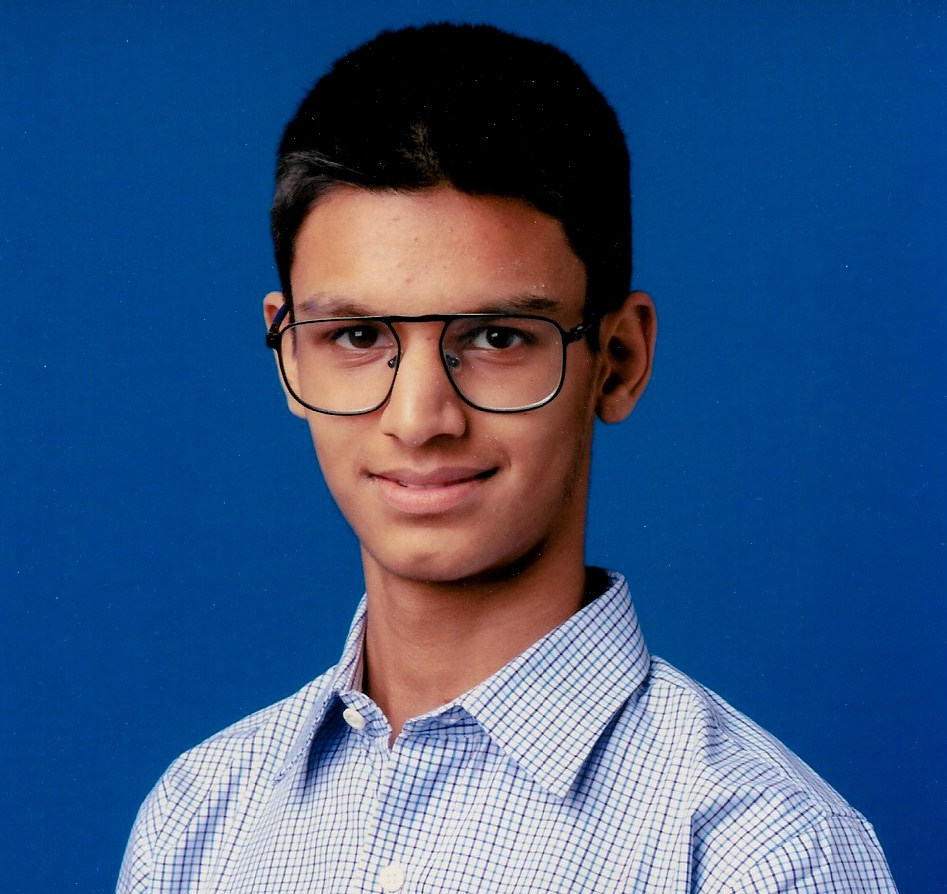
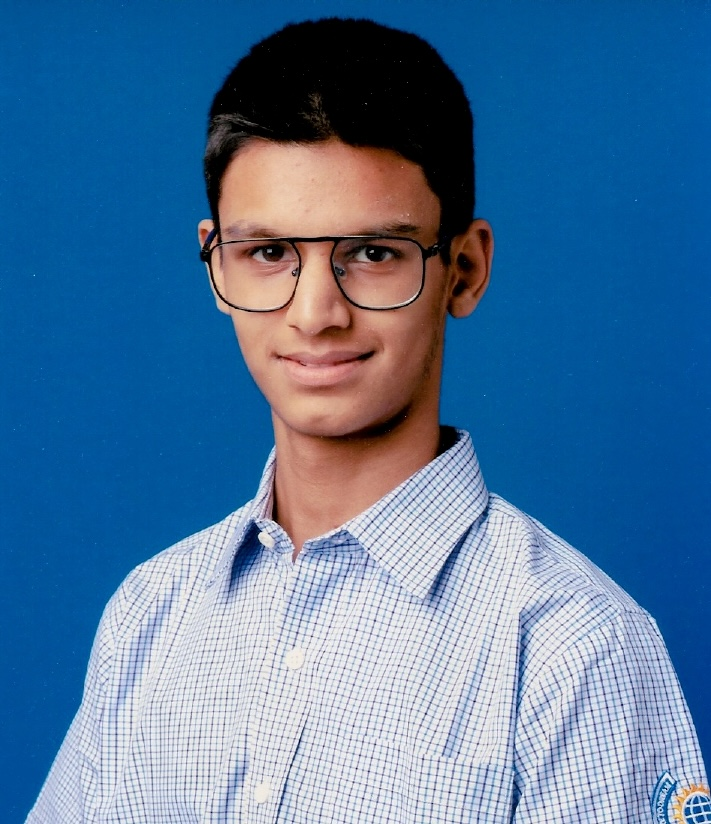
main page ready

diff --git a/index.html b/index.html
@@ -1,27 +1,92 @@
-<DOCTYPE! html>
+<html lang="en">
 
     <head>
         <meta charset="UTF-8">
         <link rel="stylesheet" href="./style.css" type="text/css">
+        <title>
+            
+        </title>
     </head>
 
     <body>
         <div class="title">
-            <div class="name">Annan Vora</div>
-            <div class="name-description">
-                I am a high school senior aspiring to pursue higher education in the United States of America, majoring in Chemistry. 
+            <div class="bio">
+                <div class="name">Annan Vora</div>
+                <div class="name-description">
+                    I am a high school senior aspiring to pursue higher education in the United States of America, majoring in Chemistry. 
+                </div>
             </div>
             <div class="me">
-                <img src="./me.jpg">
+                <img class="me-image" src="./me.png">
             </div>
         </div>
         <hr>
-        <div id="academic" class="main-item">
-            <img src="./me.jpg" class="main-item-image">
-            <a class="into-item" href="https://annanvora.github.io/academic.html">
-                Academic Record
-            </a>
+        <div class="main-wrapper">
+            <div class="main-item" id="academic">
+                <img class="main-image" src="./academic.jpg" alt="Image not found">
+                <a class="item-button" href="https://annanvora.github.io/academic.html">
+                    Academic Record
+                </a>
+            </div>
+            <div class="main-item" id="awards">
+                <img class="main-image" src="./awards.jpg" alt="Image not found">
+                <a class="item-button" href="https://annanvora.github.io/awards.html">
+                    Awards and Honours
+                </a>
+            </div>
+            <div class="main-item" id="chem">
+                <img class="main-image" src="./chem.jpg" alt="Image not found">
+                <a class="item-button" href="https://annanvora.github.io/experience-research.html">
+                    Chemistry Experience
+                </a>
+            </div>
+            <div class="main-item" id="music">
+                <img class="main-image" src="./music.jpg" alt="Image not found">
+                <a class="item-button" href="https://annanvora.github.io/music.html">
+                    Music
+                </a>
+            </div>
+            <div class="main-item" id="green">
+                <img class="main-image" src="./green.jpg" alt="Image not found">
+                <a class="item-button" href="https://annanvora.github.io/green-energy-solutions.html">
+                    Green Energy Solutions
+                </a>
+            </div>
+            <div class="main-item" id="citp">
+                <img class="main-image" src="./citp.jpg" alt="Image not found">
+                <a class="item-button" href="https://annanvora.github.io/park-concerts.html">
+                    Concerts in the Park
+                </a>
+            </div>
+            <div class="main-item" id="leadership">
+                <img class="main-image" src="./leadership.jpg" alt="Image not found">
+                <a class="item-button" href="https://annanvora.github.io/leadership-responsibilty.html">
+                    Leadership and Responsibilty
+                </a>
+            </div>
+            <div class="main-item" id="mun">
+                <img class="main-image" src="./mun.jpg" alt="Image not found">
+                <a class="item-button" href="https://annanvora.github.io/m-u-n.html">
+                    Model United Nations
+                </a>
+            </div>
+            <div class="main-item" id="tech">
+                <img class="main-image" src="./technology.jpg" alt="Image not found">
+                <a class="item-button" href="https://annanvora.github.io/technology.html">
+                    Technological Pursuits
+                </a>
+            </div>
+            <div class="main-item" id="misc">
+                <img class="main-image" src="./misc.jpg" alt="Image not found">
+                <a class="item-button" href="https://annanvora.github.io/extra-curriculars.html">
+                    Extra-Curricular
+                </a>
+            </div>
+        </div>
+        <script src="script.js"></script>
+        <hr>
+        <div class="end">
+            © 2024 Annan Vora
         </div>
     </body>
-
 </html>

diff --git a/style.css b/style.css
@@ -1,76 +1,99 @@
+:root {
+    --accent-color: #fb2323;
+}
+
 @font-face {
     font-family: 'Garamond';
     src: url('./garamondroughpro-regular.ttf');
 }
 
 body {
-    background-color: black;
     font-family:'Garamond';
-    color: #fff;
+    color: #000000;
+    display: flex;
+    flex-direction: column;
+    align-items: left;
+    height: 100vh;
+    margin: 0;
+    background-color: #ffffff;
 }
 
 .title {
-    width:100%;
-    height: 300px;
+    display: flex;
+    flex-direction: row;
+    margin-top: 3%;
+}
+
+.bio {
+    display: flex;
+    flex-direction: column;
+    justify-content: space-between;
+    margin-left: 100px;
 }
 
 .name {
-    font-size:48px;
-    padding-top: 100px;
-    padding-bottom: 40px;
-    padding-left: 100px;
-    width: fit-content;
+    font-size:64px;
+    padding-top: 2%;
 }
 
 .name-description {
-    font-size: 16px;
-    width: fit-600px;
-    height: auto;
-    padding-left: 100px;
-    display: block;
+    font-size: 24px;
 }
 
 .me {
-    width: 200px;
-    height: auto;
-    object-fit: fill;
-    float: right;
+   display: flex;
+   justify-content: right;
+   margin-right: 10%;
+   align-items: flex-end;
+}
+
+.me-image {
+    max-width: 40%;
+    min-width: 200px;
+}
+
+.main-wrapper {
+    display: flex;
+    justify-content: center;
+    align-items: center;
+    flex-direction: row;
+    flex-wrap: wrap;
+    margin: 40px 100px 0px 100px;
+    gap: 150px;
 }
 
 .main-item {
-    vertical-align: top;
-    display: inline-block;
+    display: flex;
+    flex-direction: column;
+    align-items: center;
     text-align: center;
-    position: relative;
+    width: 250px;
 }
 
-.main-item-image {
-    width: 400px;
+.main-image {
+    max-width: 100%;
     height: auto;
     object-fit: fill;
-    padding-top: 10%;
     padding-bottom: 5%;
 }
 
-.into-item {
-    background: #000;
-    padding: 12px 18px;
-    border: 1px solid #db2323;
+.item-button {
+    background: inherit;
+    padding: 12px 0px;
+    border: 1px solid var(--accent-color);
     font-size: 18px;
-    width: fit-content;
+    width: 100%;
     text-decoration: none;
     display: block;
-    margin: 0 auto;
     color: inherit;
+}
+
+.end {
+    text-align: center;
 }
 
 hr {
     display: block;
-    margin-top: 0.5em;
-    margin-bottom: 0.5em;
-    margin-left: 5em;
-    margin-right: 5em;
-    border-style: inset;
-    border-width: 1px;
-    border-color: red;
-  }
+    margin: 2em 6em 2em 6em;
+    border: 1px solid var(--accent-color);
+}

diff --git a/academic.html b/academic.html
@@ -1,4 +1,4 @@
-<DOCTYPE! html>
+<html lang="en">
     <body>
        Here's Academic
     </body>
